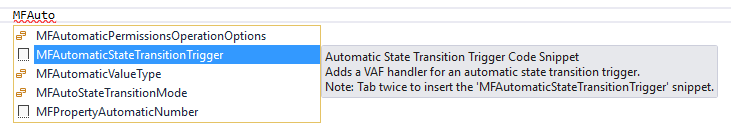
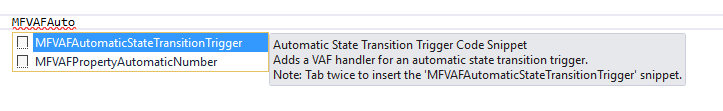
Updated the VAF code snippets section now it's published.

diff --git a/Frameworks/Vault-Application-Framework/Visual-Studio-Template/Code-Snippets/index.md b/Frameworks/Vault-Application-Framework/Visual-Studio-Template/Code-Snippets/index.md
@@ -47,49 +47,49 @@ The following code snippets exist.  Once the snippets are installed, simply type
 
 #### Properties
 
-* `MFPropertyAutomaticNumber` creates a code snippet for [PropertyAutomaticNumberingAttribute]({{ site.baseurl }}/Frameworks/Vault-Application-Framework/Attributes/Properties/#property-calculation).
-* `MFPropertyCustomValue` creates a code snippet for [PropertyCustomValueAttribute]({{ site.baseurl }}/Frameworks/Vault-Application-Framework/Attributes/Properties/#property-calculation).
-* `MFPropertyValidation` creates a code snippet for [PropertyValueValidationAttribute]({{ site.baseurl }}/Frameworks/Vault-Application-Framework/Attributes/Properties/#property-validation).
+* `MFVAFPropertyAutomaticNumber` creates a code snippet for [PropertyAutomaticNumberingAttribute]({{ site.baseurl }}/Frameworks/Vault-Application-Framework/Attributes/Properties/#property-calculation).
+* `MFVAFPropertyCustomValue` creates a code snippet for [PropertyCustomValueAttribute]({{ site.baseurl }}/Frameworks/Vault-Application-Framework/Attributes/Properties/#property-calculation).
+* `MFVAFPropertyValidation` creates a code snippet for [PropertyValueValidationAttribute]({{ site.baseurl }}/Frameworks/Vault-Application-Framework/Attributes/Properties/#property-validation).
 
 #### Vault Extension Methods
 
-* `MFVaultExtensionMethod` creates a code snippet for [VaultExtensionMethodAttribute]({{ site.baseurl }}/Frameworks/Vault-Application-Framework/Attributes/Vault-Extension-Methods/).
+* `MFVAFVaultExtensionMethod` creates a code snippet for [VaultExtensionMethodAttribute]({{ site.baseurl }}/Frameworks/Vault-Application-Framework/Attributes/Vault-Extension-Methods/).
 
 #### Workflows
 
-* `MFStateAction` creates a code snippet for [StateActionAttribute]({{ site.baseurl }}/Frameworks/Vault-Application-Framework/Attributes/Workflows/#workflow-state-actions).
-* `MFStatePreCondition` creates a code snippet for [StatePreConditionsAttribute]({{ site.baseurl }}/Frameworks/Vault-Application-Framework/Attributes/Workflows/#state-pre-conditions).
-* `MFStatePostCondition` creates a code snippet for [StatePostConditionsAttribute]({{ site.baseurl }}/Frameworks/Vault-Application-Framework/Attributes/Workflows/#state-post-conditions).
-* `MFAutomaticStateTransitionTrigger` creates a code snippet for [AutomaticStateTransitionTriggerAttribute]({{ site.baseurl }}/Frameworks/Vault-Application-Framework/Attributes/Workflows/#automatic-state-transitions).
+* `MFVAFStateAction` creates a code snippet for [StateActionAttribute]({{ site.baseurl }}/Frameworks/Vault-Application-Framework/Attributes/Workflows/#workflow-state-actions).
+* `MFVAFStatePreCondition` creates a code snippet for [StatePreConditionsAttribute]({{ site.baseurl }}/Frameworks/Vault-Application-Framework/Attributes/Workflows/#state-pre-conditions).
+* `MFVAFStatePostCondition` creates a code snippet for [StatePostConditionsAttribute]({{ site.baseurl }}/Frameworks/Vault-Application-Framework/Attributes/Workflows/#state-post-conditions).
+* `MFVAFAutomaticStateTransitionTrigger` creates a code snippet for [AutomaticStateTransitionTriggerAttribute]({{ site.baseurl }}/Frameworks/Vault-Application-Framework/Attributes/Workflows/#automatic-state-transitions).
 
 #### Event Handlers
 
-* `MFEventHandler` creates a code snippet for [EventHandlerAttribute]({{ site.baseurl }}/Frameworks/Vault-Application-Framework/Attributes/Event-Handlers/).
+* `MFVAFEventHandler` creates a code snippet for [EventHandlerAttribute]({{ site.baseurl }}/Frameworks/Vault-Application-Framework/Attributes/Event-Handlers/).
 
 #### Vault Structural Elements (MFIdentifiers)
 
-* `MFClassGroupIdentifier` creates a code snippet for a [MFIdentifier]({{ site.baseurl }}Frameworks/Vault-Application-Framework/Attributes/Configuration/#mfidentifier) with a `MFClassGroupAttribute`.
-* `MFClassIdentifier` creates a code snippet for a [MFIdentifier]({{ site.baseurl }}Frameworks/Vault-Application-Framework/Attributes/Configuration/#mfidentifier) with a `MFClassAttribute`.
-* `MFObjectTypeIdentifier` creates a code snippet for a [MFIdentifier]({{ site.baseurl }}Frameworks/Vault-Application-Framework/Attributes/Configuration/#mfidentifier) with a `MFObjTypeAttribute`.
-* `MFValueListIdentifier` creates a code snippet for a [MFIdentifier]({{ site.baseurl }}Frameworks/Vault-Application-Framework/Attributes/Configuration/#mfidentifier) with a `MFValueListAttribute`.
-* `MFValueListItemIdentifier` creates a code snippet for a [MFIdentifier]({{ site.baseurl }}Frameworks/Vault-Application-Framework/Attributes/Configuration/#mfidentifier) with a `MFValueListItemAttribute`.
-* `MFNamedAccessControlListIdentifier` creates a code snippet for a [MFIdentifier]({{ site.baseurl }}Frameworks/Vault-Application-Framework/Attributes/Configuration/#mfidentifier) with a `MFNamedACL`.
-* `MFUserGroupIdentifier` creates a code snippet for a [MFIdentifier]({{ site.baseurl }}Frameworks/Vault-Application-Framework/Attributes/Configuration/#mfidentifier) with a `MFUserGroupAttribute`.
-* `MFPropertyDefinitionIdentifier` creates a code snippet for a [MFIdentifier]({{ site.baseurl }}Frameworks/Vault-Application-Framework/Attributes/Configuration/#mfidentifier) with a `MFPropertyDefAttribute`.
-* `MFWorkflowIdentifier` creates a code snippet for a [MFIdentifier]({{ site.baseurl }}Frameworks/Vault-Application-Framework/Attributes/Configuration/#mfidentifier) with a `MFWorkflowAttribute`.
-* `MFWorkflowStateIdentifier` creates a code snippet for a [MFIdentifier]({{ site.baseurl }}Frameworks/Vault-Application-Framework/Attributes/Configuration/#mfidentifier) with a `MFStateAttribute`.
-* `MFWorkflowStateTransitionIdentifier` creates a code snippet for a [MFIdentifier]({{ site.baseurl }}Frameworks/Vault-Application-Framework/Attributes/Configuration/#mfidentifier) with a `MFStateTransitionAttribute`.
-* `MFViewIdentifier` creates a code snippet for a [MFIdentifier]({{ site.baseurl }}Frameworks/Vault-Application-Framework/Attributes/Configuration/#mfidentifier) with a `MFViewAttribute`.
+* `MFVAFClassGroupIdentifier` creates a code snippet for a [MFIdentifier]({{ site.baseurl }}Frameworks/Vault-Application-Framework/Attributes/Configuration/#mfidentifier) with a `MFVAFClassGroupAttribute`.
+* `MFVAFClassIdentifier` creates a code snippet for a [MFIdentifier]({{ site.baseurl }}Frameworks/Vault-Application-Framework/Attributes/Configuration/#mfidentifier) with a `MFVAFClassAttribute`.
+* `MFVAFObjectTypeIdentifier` creates a code snippet for a [MFIdentifier]({{ site.baseurl }}Frameworks/Vault-Application-Framework/Attributes/Configuration/#mfidentifier) with a `MFVAFObjTypeAttribute`.
+* `MFVAFValueListIdentifier` creates a code snippet for a [MFIdentifier]({{ site.baseurl }}Frameworks/Vault-Application-Framework/Attributes/Configuration/#mfidentifier) with a `MFVAFValueListAttribute`.
+* `MFVAFValueListItemIdentifier` creates a code snippet for a [MFIdentifier]({{ site.baseurl }}Frameworks/Vault-Application-Framework/Attributes/Configuration/#mfidentifier) with a `MFVAFValueListItemAttribute`.
+* `MFVAFNamedAccessControlListIdentifier` creates a code snippet for a [MFIdentifier]({{ site.baseurl }}Frameworks/Vault-Application-Framework/Attributes/Configuration/#mfidentifier) with a `MFVAFNamedACL`.
+* `MFVAFUserGroupIdentifier` creates a code snippet for a [MFIdentifier]({{ site.baseurl }}Frameworks/Vault-Application-Framework/Attributes/Configuration/#mfidentifier) with a `MFVAFUserGroupAttribute`.
+* `MFVAFPropertyDefinitionIdentifier` creates a code snippet for a [MFIdentifier]({{ site.baseurl }}Frameworks/Vault-Application-Framework/Attributes/Configuration/#mfidentifier) with a `MFVAFPropertyDefAttribute`.
+* `MFVAFWorkflowIdentifier` creates a code snippet for a [MFIdentifier]({{ site.baseurl }}Frameworks/Vault-Application-Framework/Attributes/Configuration/#mfidentifier) with a `MFVAFWorkflowAttribute`.
+* `MFVAFWorkflowStateIdentifier` creates a code snippet for a [MFIdentifier]({{ site.baseurl }}Frameworks/Vault-Application-Framework/Attributes/Configuration/#mfidentifier) with a `MFVAFStateAttribute`.
+* `MFVAFWorkflowStateTransitionIdentifier` creates a code snippet for a [MFIdentifier]({{ site.baseurl }}Frameworks/Vault-Application-Framework/Attributes/Configuration/#mfidentifier) with a `MFVAFStateTransitionAttribute`.
+* `MFVAFViewIdentifier` creates a code snippet for a [MFIdentifier]({{ site.baseurl }}Frameworks/Vault-Application-Framework/Attributes/Configuration/#mfidentifier) with a `MFVAFViewAttribute`.
 
 #### Configuration
 
-* `MFConfiguration` creates a code snippet for a property with a `MFConfigurationAttribute`.
+* `MFVAFConfiguration` creates a code snippet for a property with a `MFVAFConfigurationAttribute`.
 
 ## Installing the Vault Application Framework Code Snippets
 
 ### Installing using the Visual Studio installer
 
-[An installer for the Vault Application Framework Code Snippets is available on the Visual Studio Gallery](#).  Simply press the `Download` button on the gallery page, run the `.vsix` file, and it will install the Code Snippets into Visual Studio for you.
+[An installer for the Vault Application Framework Code Snippets is available on the Visual Studio Gallery](https://marketplace.visualstudio.com/vsgallery/e85fe8ed-5026-439c-9afd-63b7b4f83767).  Simply press the `Download` button on the gallery page, run the `.vsix` file, and it will install the Code Snippets into Visual Studio for you.
 
 <p class="note">The Vault Application Framework Code Snippets can be uninstalled through <code class="highlighter-rouge">Add/Remove Programs</code>, as with other installed applications.</p>
 
